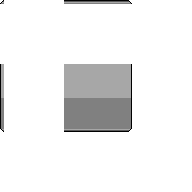
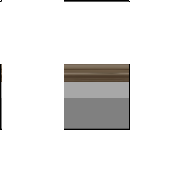
CHG: Theme defined window title bars can now be combined with player colored title text.

diff --git a/src/simutrans/gui/simwin.cc b/src/simutrans/gui/simwin.cc
@@ -317,17 +317,16 @@ static sint8 decode_gadget_boxes(simwin_gadget_flags_t const * const flags, int 
 static void win_draw_window_title(const scr_coord pos, const scr_size size,
 		const FLAGGED_PIXVAL title_color,
 		const char * const text,
-		const FLAGGED_PIXVAL text_color,
+		FLAGGED_PIXVAL text_color,
 		const koord3d welt_pos,
 		const uint16 gadget_state,
 		const bool sticky,
 		const bool goto_pushed,
 		simwin_gadget_flags_t &flags,
-	    const bool is_player)
+	    const bool is_player,
+		const bool is_top)
 {
 	PUSH_CLIP_FIT(pos.x, pos.y, size.w, size.h);
-
-	const PIXVAL color = title_color & 0xFFFF;
 	PIXVAL lighter, darker;
 
 	// Hajo: use themed title bars?
@@ -335,18 +334,41 @@ static void win_draw_window_title(const scr_coord pos, const scr_size size,
 		const scr_rect area(pos.x, pos.y, size.w, D_TITLEBAR_HEIGHT);
 
 		// Hajo: trickery - player no. is in bits 16 to 23, color is in bits 0 to 15
-		const int pn = (title_color >> 16) & 0x7F;
+		const int pn = (title_color >> 16) & 0x0F;
+		const int pc = (title_color >> 24) & 0xFF;
 		
-		// Hajo: calculate real shading
-		lighter = display_blend_colors(color, color_idx_to_rgb(COL_WHITE), 25);
-		darker  = display_blend_colors(color, color_idx_to_rgb(COL_BLACK), 25);
+		// Hajo: calculate real shading, how?
+		lighter = get_system_color(128, 128, 128);
+		darker  = get_system_color(0, 0, 0);
 
-		if(is_player) {
-			display_img_stretch(gui_theme_t::gui_title_bar_player, area, pn);
+		// Hajo: does this theme have player colored title bars?
+		if(skinverwaltung_t::title_bar_player) {
+			// Yes, so we can use normal text and player color bar
+			if(is_player) {
+				display_img_stretch(gui_theme_t::gui_title_bar_player, area, pn);
+			} else {
+				display_img_stretch(gui_theme_t::gui_title_bar, area, 0);
+			}
 		} else {
-			display_img_stretch(gui_theme_t::gui_title_bar, area, 0);
+			// A theme without player color title bars. In this case we change
+			// the title text to player color
+			
+			text_color = (is_player) ? color_idx_to_rgb(pc+7) : get_system_color(255, 255, 255);
+			
+			display_img_stretch(gui_theme_t::gui_title_bar, area, 0);			
 		}
+		
 	} else {
+		
+		PIXVAL color = title_color & 0xFFFF;
+
+		if(!is_top) {
+			// not top => darker
+			FLAGGED_PIXVAL special_bits = title_color & 0xFFFF0000;
+			color = display_blend_colors(title_color & 0xFFFF, color_idx_to_rgb(COL_BLACK), env_t::bottom_window_darkness);
+			color |= special_bits;
+		}
+
 		lighter = display_blend_colors(color, color_idx_to_rgb(COL_WHITE), 25);
 		darker  = display_blend_colors(color, color_idx_to_rgb(COL_BLACK), 25);
 
@@ -362,11 +384,21 @@ static void win_draw_window_title(const scr_coord pos, const scr_size size,
 	}
         
 	// Draw the gadgets and then move left and draw text.
+	const int width = display_gadget_boxes( &flags, pos.x+(REVERSE_GADGETS?0:size.w-D_GADGET_WIDTH), pos.y, lighter, darker, gadget_state, sticky, goto_pushed );
+	const int left = (REVERSE_GADGETS ? width + 4 : 4);
+	const int top = (D_TITLEBAR_HEIGHT-LINEASCENT)/2;
+
+	if(!is_top) {
+		// not top => darker
+		text_color = env_t::bottom_window_text_color;
+	}
+	
+	int titlewidth = display_proportional_clip_rgb(pos.x + left, pos.y + top, text, ALIGN_LEFT, text_color, false);
+	
+	// if the object has a world position, show the coordinates
 	flags.gotopos = (welt_pos != koord3d::invalid);
-	int width = display_gadget_boxes( &flags, pos.x+(REVERSE_GADGETS?0:size.w-D_GADGET_WIDTH), pos.y, lighter, darker, gadget_state, sticky, goto_pushed );
-	int titlewidth = display_proportional_clip_rgb( pos.x + (REVERSE_GADGETS?width+4:4), pos.y+(D_TITLEBAR_HEIGHT-LINEASCENT)/2, text, ALIGN_LEFT, text_color, false );
-	if(  flags.gotopos  ) {
-		display_proportional_clip_rgb( pos.x + (REVERSE_GADGETS?width+4:4)+titlewidth+8, pos.y+(D_TITLEBAR_HEIGHT-LINEASCENT)/2, welt_pos.get_fullstr(), ALIGN_LEFT, text_color, false );
+	if(flags.gotopos) {
+		display_proportional_clip_rgb(pos.x + left + titlewidth + 8, pos.y + top, welt_pos.get_2d_str(), ALIGN_LEFT, text_color, false);
 	}
 	POP_CLIP();
 }
@@ -1122,13 +1154,6 @@ void display_win(int win)
 	FLAGGED_PIXVAL text_color = env_t::front_window_text_color;
 	bool is_player = title_color & PLAYER_FLAG;
 	
-	if((unsigned)win!=wins.get_count()-1  ) {
-		// not top => darker
-		FLAGGED_PIXVAL special_bits = title_color & 0xFFFF0000;
-		title_color = display_blend_colors(title_color & 0xFFFF, color_idx_to_rgb(COL_BLACK), env_t::bottom_window_darkness);
-		title_color |= special_bits;
-		text_color = env_t::bottom_window_text_color;
-	}
 	bool need_dragger = comp->get_resizemode() != gui_frame_t::no_resize;
 
 	// HACK  So draw will know if gadget is needed.
@@ -1144,7 +1169,8 @@ void display_win(int win)
 				wins[win].sticky,
 				comp->is_weltpos(),
 				wins[win].flags,
-			    is_player);
+			    is_player,
+				(unsigned)win == wins.get_count()-1);
 	}
 	if(  wins[win].dirty  ) {
 		// not sure this is still a useful call

diff --git a/src/simutrans/gui/gui_theme.cc b/src/simutrans/gui/gui_theme.cc
@@ -367,7 +367,10 @@ void gui_theme_t::init_gui_from_images()
 			display_marker_label[j%3][j/3] = skinverwaltung_t::display_marker_label->get_image_id(j);
 			display_factory_label[j%3][j/3] = skinverwaltung_t::display_factory_label->get_image_id(j);
 			gui_title_bar[j%3][j/3] = skinverwaltung_t::title_bar->get_image_id(j);
-			gui_title_bar_player[j%3][j/3] = skinverwaltung_t::title_bar_player->get_image_id(j);
+			
+			if(skinverwaltung_t::title_bar_player) {
+				gui_title_bar_player[j%3][j/3] = skinverwaltung_t::title_bar_player->get_image_id(j);
+			}
 		}
 	}
 

diff --git a/src/simutrans/dataobj/koord3d.cc b/src/simutrans/dataobj/koord3d.cc
@@ -81,6 +81,20 @@ const char *koord3d::get_fullstr() const
 }
 
 
+/**
+ * @return A string representation of the 2D coordinates, with brackets
+ */
+const char *koord3d::get_2d_str() const
+{
+	static char pos_str[32];
+	if(x==-1  &&  y==-1  &&  z==-1) {
+		return "invalid";
+	}
+	sprintf(pos_str, "(%i, %i)", x, y);
+	return pos_str;
+}
+
+
 ribi_t::ribi koord3d_vector_t::get_ribi( uint32 index ) const
 {
 	ribi_t::ribi ribi = ribi_t::none;

diff --git a/src/simutrans/gui/gui_frame.cc b/src/simutrans/gui/gui_frame.cc
@@ -100,7 +100,7 @@ FLAGGED_PIXVAL gui_frame_t::get_titlecolor() const
 		// Hajo: we have themed title bars, combine the color values into one 32 bit number
 		FLAGGED_PIXVAL color = env_t::default_window_title_color;
 		if(owner) {
-			color |= PLAYER_FLAG | (owner->get_player_nr() << 16);
+			color |= PLAYER_FLAG | (owner->get_player_color1() << 24) | (owner->get_player_nr() << 16);
 		}
 		return color; 
 	} else {

diff --git a/src/simutrans/dataobj/koord3d.h b/src/simutrans/dataobj/koord3d.h
@@ -31,6 +31,11 @@ public:
 	const char *get_str() const;
 	const char *get_fullstr() const; // including brackets
 
+        /**
+         * @return A string representation of the 2D coordinates, with brackets
+         */
+        const char* get_2d_str() const;
+
 	void rotate90( sint16 y_diff );
 
 	void rdwr(loadsave_t* file);
